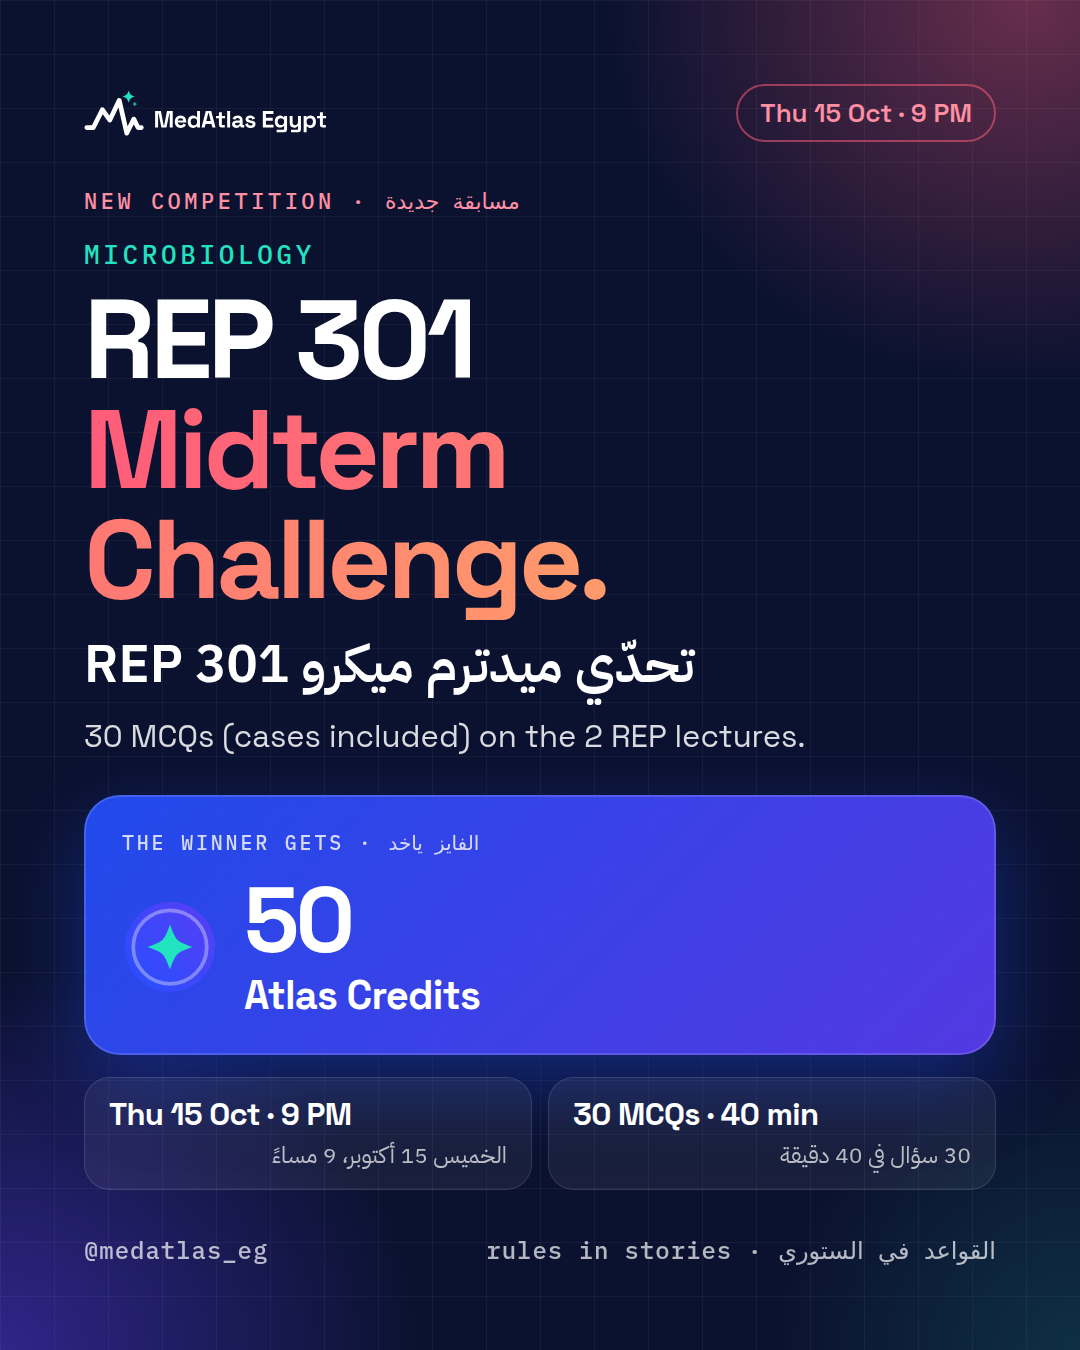
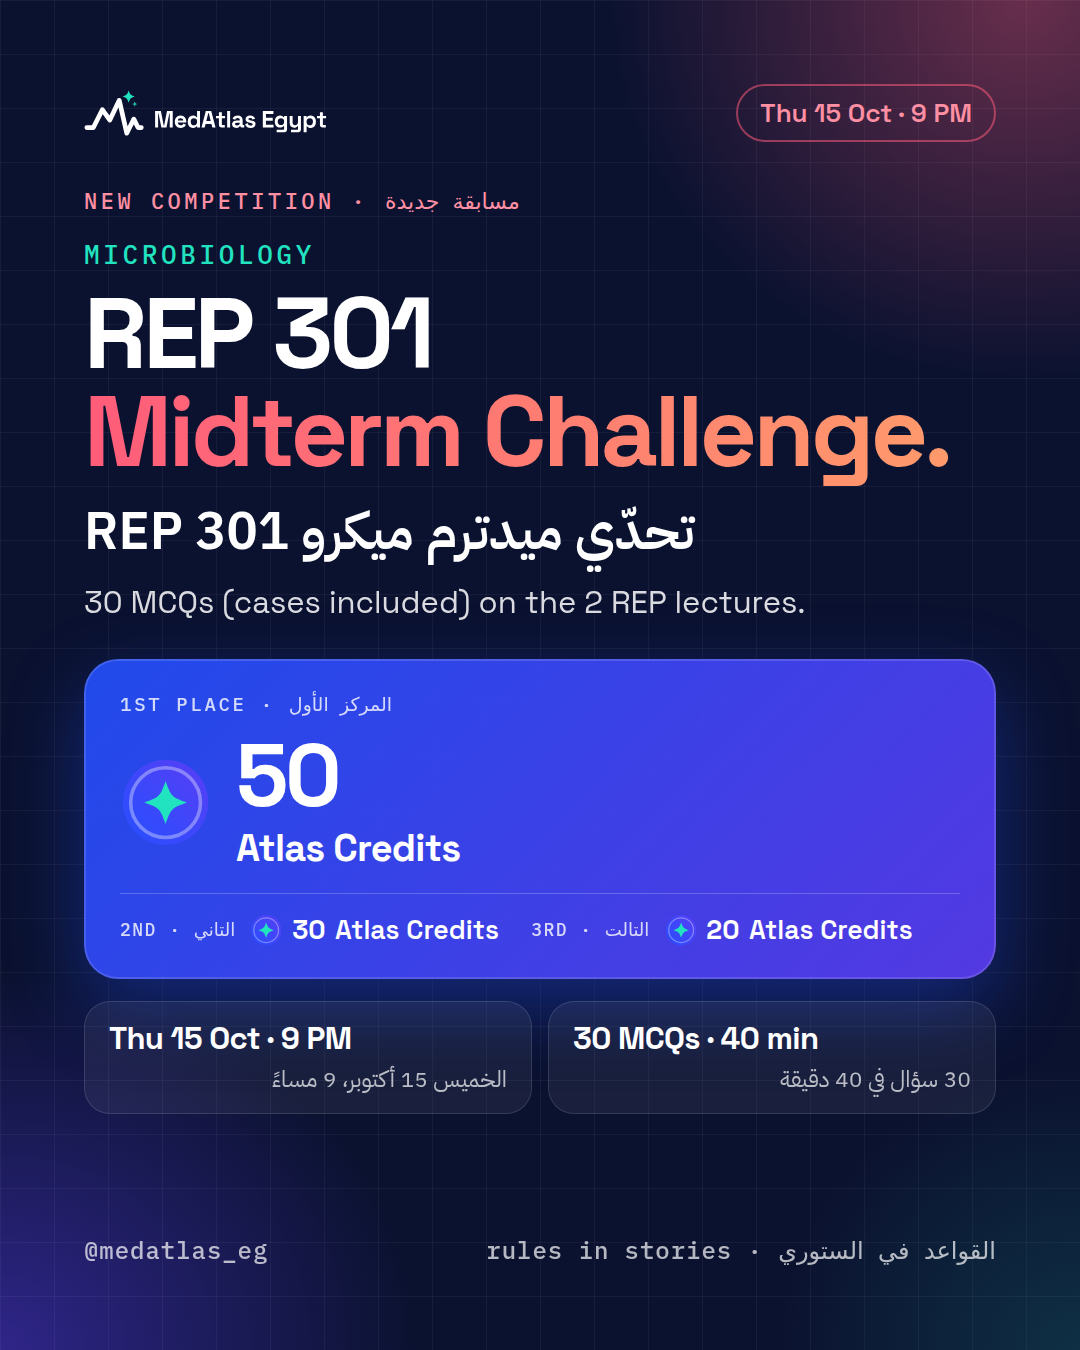
REP challenge designs: 1st 50, 2nd 30, 3rd 20 Atlas Credits

Changed region(s): [[0.0611, 0.2178, 0.9472, 0.8711]]

diff --git a/_source/rep-challenge/story-comp-rules.html b/_source/rep-challenge/story-comp-rules.html
@@ -5,7 +5,8 @@
   <div class="ar-line" style="margin-top:4px;font-size:48px">إزاي تشارك</div>
   <div style="margin-top:22px"><div class="rule"><div class="n">1</div><div><div class="en">Follow @medatlas_eg on Instagram and join our WhatsApp Channel</div><div class="arx">تابعنا على إنستجرام وانضم لقناة الواتساب</div></div></div><div class="rule"><div class="n">2</div><div><div class="en">Sign up on MedAtlas, free</div><div class="arx">سجّل على MedAtlas ببلاش</div></div></div><div class="rule"><div class="n">3</div><div><div class="en">Thu 15 Oct · opens 9:00 PM · last entry 9:15 PM</div><div class="arx">الخميس 15 أكتوبر: يفتح 9:00 م، وآخر دخول 9:15 م</div></div></div><div class="rule"><div class="n">4</div><div><div class="en">30 MCQs (cases included) · 40 min · 1 attempt</div><div class="arx">30 سؤال منهم حالات مرضية، 40 دقيقة، ومحاولة واحدة</div></div></div><div class="rule"><div class="n">5</div><div><div class="en">Highest score wins · tie? fastest wins</div><div class="arx">أعلى درجة تكسب، ولو في تعادل الأسرع يكسب</div></div></div><div class="rule"><div class="n">6</div><div><div class="en">Winners checked by university ID + Instagram, announced Fri 16 Oct, 8 PM</div><div class="arx">هنتأكد من الفايزين ونعلنهم الجمعة 16 أكتوبر 8 م، مع الإجابات</div></div></div></div>
   <div style="margin-top:8px"><div class="prize" style="zoom:0.8">
-  <div class="k">The winner gets · الفايز ياخد</div>
-  <div class="win"><svg width="96" height="96" viewBox="0 0 128 128"><defs><linearGradient id="cg2" x1="0" y1="128" x2="128" y2="0" gradientUnits="userSpaceOnUse"><stop offset="0" stop-color="#2350FF"/><stop offset="1" stop-color="#5B3DF5"/></linearGradient></defs><circle cx="64" cy="64" r="60" fill="url(#cg2)"/><circle cx="64" cy="64" r="49" fill="none" stroke="#fff" stroke-opacity=".35" stroke-width="5"/><path d="M64 34 C72.1 55.9 72.1 55.9 94 64 C72.1 72.1 72.1 72.1 64 94 C55.9 72.1 55.9 72.1 34 64 C55.9 55.9 55.9 55.9 64 34 Z" fill="#21E3C0"/></svg><div><div class="v">50</div><div class="u">Atlas Credits</div></div></div>
+  <div class="k">1st place · المركز الأول</div>
+  <div class="win"><svg width="96" height="96" viewBox="0 0 128 128"><defs><linearGradient id="cg4" x1="0" y1="128" x2="128" y2="0" gradientUnits="userSpaceOnUse"><stop offset="0" stop-color="#2350FF"/><stop offset="1" stop-color="#5B3DF5"/></linearGradient></defs><circle cx="64" cy="64" r="60" fill="url(#cg4)"/><circle cx="64" cy="64" r="49" fill="none" stroke="#fff" stroke-opacity=".35" stroke-width="5"/><path d="M64 34 C72.1 55.9 72.1 55.9 94 64 C72.1 72.1 72.1 72.1 64 94 C55.9 72.1 55.9 72.1 34 64 C55.9 55.9 55.9 55.9 64 34 Z" fill="#21E3C0"/></svg><div><div class="v">50</div><div class="u">Atlas Credits</div></div></div>
+  <div class="runners"><div><span class="pl">2nd · التاني</span><svg width="34" height="34" viewBox="0 0 128 128"><defs><linearGradient id="cg5" x1="0" y1="128" x2="128" y2="0" gradientUnits="userSpaceOnUse"><stop offset="0" stop-color="#2350FF"/><stop offset="1" stop-color="#5B3DF5"/></linearGradient></defs><circle cx="64" cy="64" r="60" fill="url(#cg5)"/><circle cx="64" cy="64" r="49" fill="none" stroke="#fff" stroke-opacity=".35" stroke-width="5"/><path d="M64 34 C72.1 55.9 72.1 55.9 94 64 C72.1 72.1 72.1 72.1 64 94 C55.9 72.1 55.9 72.1 34 64 C55.9 55.9 55.9 55.9 64 34 Z" fill="#21E3C0"/></svg><b>30</b> Atlas Credits</div><div><span class="pl">3rd · التالت</span><svg width="34" height="34" viewBox="0 0 128 128"><defs><linearGradient id="cg6" x1="0" y1="128" x2="128" y2="0" gradientUnits="userSpaceOnUse"><stop offset="0" stop-color="#2350FF"/><stop offset="1" stop-color="#5B3DF5"/></linearGradient></defs><circle cx="64" cy="64" r="60" fill="url(#cg6)"/><circle cx="64" cy="64" r="49" fill="none" stroke="#fff" stroke-opacity=".35" stroke-width="5"/><path d="M64 34 C72.1 55.9 72.1 55.9 94 64 C72.1 72.1 72.1 72.1 64 94 C55.9 72.1 55.9 72.1 34 64 C55.9 55.9 55.9 55.9 64 34 Z" fill="#21E3C0"/></svg><b>20</b> Atlas Credits</div></div>
 </div></div>
   <div class="body" style="margin-top:20px;font-size:25px;opacity:.65">Only your first attempt counts · <span class="ar">أول محاولة بس اللي بتتحسب</span></div></div></body></html>

diff --git a/_source/rep-challenge/post-comp-rep-challenge.html b/_source/rep-challenge/post-comp-rep-challenge.html
@@ -1,12 +1,13 @@
 <!doctype html><html><head><meta charset="utf-8"><link rel="stylesheet" href="../comp.css"><style>:root{--w:1080px;--h:1350px}.fact{padding:16px 24px}.fact b{font-size:31px}</style></head><body><div class="frame">
   <div class="top"><img src="../../../logo/final/svg/medatlas-logo-horizontal-reversed.svg" alt=""><span class="chip rep-c">Thu 15 Oct · 9 PM</span></div>
   <div style="margin-top:44px"><span class="label">New competition · مسابقة جديدة</span></div>
-  <div class="h1" style="--h1:112px;margin-top:22px"><span class="sub">Microbiology</span>REP 301<br><span class="rep">Midterm Challenge.</span></div>
+  <div class="h1" style="--h1:100px;margin-top:22px"><span class="sub">Microbiology</span>REP 301<br><span class="rep">Midterm Challenge.</span></div>
   <div class="ar-line" style="margin-top:14px;font-size:52px">تحدّي ميدترم ميكرو REP 301</div>
   <div class="body" style="margin-top:10px;font-size:31px">30 MCQs (cases included) on the 2 REP lectures.</div>
-  <div style="margin-top:36px"><div class="prize" style="zoom:1">
-  <div class="k">The winner gets · الفايز ياخد</div>
+  <div style="margin-top:34px"><div class="prize" style="zoom:0.95">
+  <div class="k">1st place · المركز الأول</div>
   <div class="win"><svg width="96" height="96" viewBox="0 0 128 128"><defs><linearGradient id="cg1" x1="0" y1="128" x2="128" y2="0" gradientUnits="userSpaceOnUse"><stop offset="0" stop-color="#2350FF"/><stop offset="1" stop-color="#5B3DF5"/></linearGradient></defs><circle cx="64" cy="64" r="60" fill="url(#cg1)"/><circle cx="64" cy="64" r="49" fill="none" stroke="#fff" stroke-opacity=".35" stroke-width="5"/><path d="M64 34 C72.1 55.9 72.1 55.9 94 64 C72.1 72.1 72.1 72.1 64 94 C55.9 72.1 55.9 72.1 34 64 C55.9 55.9 55.9 55.9 64 34 Z" fill="#21E3C0"/></svg><div><div class="v">50</div><div class="u">Atlas Credits</div></div></div>
+  <div class="runners"><div><span class="pl">2nd · التاني</span><svg width="34" height="34" viewBox="0 0 128 128"><defs><linearGradient id="cg2" x1="0" y1="128" x2="128" y2="0" gradientUnits="userSpaceOnUse"><stop offset="0" stop-color="#2350FF"/><stop offset="1" stop-color="#5B3DF5"/></linearGradient></defs><circle cx="64" cy="64" r="60" fill="url(#cg2)"/><circle cx="64" cy="64" r="49" fill="none" stroke="#fff" stroke-opacity=".35" stroke-width="5"/><path d="M64 34 C72.1 55.9 72.1 55.9 94 64 C72.1 72.1 72.1 72.1 64 94 C55.9 72.1 55.9 72.1 34 64 C55.9 55.9 55.9 55.9 64 34 Z" fill="#21E3C0"/></svg><b>30</b> Atlas Credits</div><div><span class="pl">3rd · التالت</span><svg width="34" height="34" viewBox="0 0 128 128"><defs><linearGradient id="cg3" x1="0" y1="128" x2="128" y2="0" gradientUnits="userSpaceOnUse"><stop offset="0" stop-color="#2350FF"/><stop offset="1" stop-color="#5B3DF5"/></linearGradient></defs><circle cx="64" cy="64" r="60" fill="url(#cg3)"/><circle cx="64" cy="64" r="49" fill="none" stroke="#fff" stroke-opacity=".35" stroke-width="5"/><path d="M64 34 C72.1 55.9 72.1 55.9 94 64 C72.1 72.1 72.1 72.1 64 94 C55.9 72.1 55.9 72.1 34 64 C55.9 55.9 55.9 55.9 64 34 Z" fill="#21E3C0"/></svg><b>20</b> Atlas Credits</div></div>
 </div></div>
   <div class="facts" style="margin-top:22px">
     <div class="fact"><b>Thu 15 Oct · 9 PM</b><span class="ar">الخميس 15 أكتوبر، 9 مساءً</span></div>

diff --git a/_source/rep-challenge/story-comp-countdown.html b/_source/rep-challenge/story-comp-countdown.html
@@ -5,8 +5,9 @@
   <div class="ar" style="font-weight:700;font-size:56px;margin-top:18px">تحدّي ميدترم ميكرو REP 301</div>
   <div class="body" style="margin-top:14px;font-size:30px">30 MCQs · 40 min · <span class="ar">الخميس 9 مساءً</span></div></div>
   <div style="margin:48px auto 0"><div class="prize" style="zoom:0.95">
-  <div class="k">The winner gets · الفايز ياخد</div>
-  <div class="win"><svg width="96" height="96" viewBox="0 0 128 128"><defs><linearGradient id="cg3" x1="0" y1="128" x2="128" y2="0" gradientUnits="userSpaceOnUse"><stop offset="0" stop-color="#2350FF"/><stop offset="1" stop-color="#5B3DF5"/></linearGradient></defs><circle cx="64" cy="64" r="60" fill="url(#cg3)"/><circle cx="64" cy="64" r="49" fill="none" stroke="#fff" stroke-opacity=".35" stroke-width="5"/><path d="M64 34 C72.1 55.9 72.1 55.9 94 64 C72.1 72.1 72.1 72.1 64 94 C55.9 72.1 55.9 72.1 34 64 C55.9 55.9 55.9 55.9 64 34 Z" fill="#21E3C0"/></svg><div><div class="v">50</div><div class="u">Atlas Credits</div></div></div>
+  <div class="k">1st place · المركز الأول</div>
+  <div class="win"><svg width="96" height="96" viewBox="0 0 128 128"><defs><linearGradient id="cg7" x1="0" y1="128" x2="128" y2="0" gradientUnits="userSpaceOnUse"><stop offset="0" stop-color="#2350FF"/><stop offset="1" stop-color="#5B3DF5"/></linearGradient></defs><circle cx="64" cy="64" r="60" fill="url(#cg7)"/><circle cx="64" cy="64" r="49" fill="none" stroke="#fff" stroke-opacity=".35" stroke-width="5"/><path d="M64 34 C72.1 55.9 72.1 55.9 94 64 C72.1 72.1 72.1 72.1 64 94 C55.9 72.1 55.9 72.1 34 64 C55.9 55.9 55.9 55.9 64 34 Z" fill="#21E3C0"/></svg><div><div class="v">50</div><div class="u">Atlas Credits</div></div></div>
+  <div class="runners"><div><span class="pl">2nd · التاني</span><svg width="34" height="34" viewBox="0 0 128 128"><defs><linearGradient id="cg8" x1="0" y1="128" x2="128" y2="0" gradientUnits="userSpaceOnUse"><stop offset="0" stop-color="#2350FF"/><stop offset="1" stop-color="#5B3DF5"/></linearGradient></defs><circle cx="64" cy="64" r="60" fill="url(#cg8)"/><circle cx="64" cy="64" r="49" fill="none" stroke="#fff" stroke-opacity=".35" stroke-width="5"/><path d="M64 34 C72.1 55.9 72.1 55.9 94 64 C72.1 72.1 72.1 72.1 64 94 C55.9 72.1 55.9 72.1 34 64 C55.9 55.9 55.9 55.9 64 34 Z" fill="#21E3C0"/></svg><b>30</b> Atlas Credits</div><div><span class="pl">3rd · التالت</span><svg width="34" height="34" viewBox="0 0 128 128"><defs><linearGradient id="cg9" x1="0" y1="128" x2="128" y2="0" gradientUnits="userSpaceOnUse"><stop offset="0" stop-color="#2350FF"/><stop offset="1" stop-color="#5B3DF5"/></linearGradient></defs><circle cx="64" cy="64" r="60" fill="url(#cg9)"/><circle cx="64" cy="64" r="49" fill="none" stroke="#fff" stroke-opacity=".35" stroke-width="5"/><path d="M64 34 C72.1 55.9 72.1 55.9 94 64 C72.1 72.1 72.1 72.1 64 94 C55.9 72.1 55.9 72.1 34 64 C55.9 55.9 55.9 55.9 64 34 Z" fill="#21E3C0"/></svg><b>20</b> Atlas Credits</div></div>
 </div></div>
   <div style="flex:1"></div>
   <div class="body" style="text-align:center;font-size:28px;opacity:.7">↓ set a reminder · <span class="ar">فعّل التذكير</span></div>

diff --git a/_source/rep-challenge/story-comp-poll.html b/_source/rep-challenge/story-comp-poll.html
@@ -7,6 +7,7 @@
   <div class="slot"><span>↓ vote · <span class="ar">صوّت</span></span></div>
   <div style="flex:1"></div>
   <div style="margin:0 auto"><div class="prize" style="zoom:0.95">
-  <div class="k">The winner gets · الفايز ياخد</div>
-  <div class="win"><svg width="96" height="96" viewBox="0 0 128 128"><defs><linearGradient id="cg4" x1="0" y1="128" x2="128" y2="0" gradientUnits="userSpaceOnUse"><stop offset="0" stop-color="#2350FF"/><stop offset="1" stop-color="#5B3DF5"/></linearGradient></defs><circle cx="64" cy="64" r="60" fill="url(#cg4)"/><circle cx="64" cy="64" r="49" fill="none" stroke="#fff" stroke-opacity=".35" stroke-width="5"/><path d="M64 34 C72.1 55.9 72.1 55.9 94 64 C72.1 72.1 72.1 72.1 64 94 C55.9 72.1 55.9 72.1 34 64 C55.9 55.9 55.9 55.9 64 34 Z" fill="#21E3C0"/></svg><div><div class="v">50</div><div class="u">Atlas Credits</div></div></div>
+  <div class="k">1st place · المركز الأول</div>
+  <div class="win"><svg width="96" height="96" viewBox="0 0 128 128"><defs><linearGradient id="cg10" x1="0" y1="128" x2="128" y2="0" gradientUnits="userSpaceOnUse"><stop offset="0" stop-color="#2350FF"/><stop offset="1" stop-color="#5B3DF5"/></linearGradient></defs><circle cx="64" cy="64" r="60" fill="url(#cg10)"/><circle cx="64" cy="64" r="49" fill="none" stroke="#fff" stroke-opacity=".35" stroke-width="5"/><path d="M64 34 C72.1 55.9 72.1 55.9 94 64 C72.1 72.1 72.1 72.1 64 94 C55.9 72.1 55.9 72.1 34 64 C55.9 55.9 55.9 55.9 64 34 Z" fill="#21E3C0"/></svg><div><div class="v">50</div><div class="u">Atlas Credits</div></div></div>
+  <div class="runners"><div><span class="pl">2nd · التاني</span><svg width="34" height="34" viewBox="0 0 128 128"><defs><linearGradient id="cg11" x1="0" y1="128" x2="128" y2="0" gradientUnits="userSpaceOnUse"><stop offset="0" stop-color="#2350FF"/><stop offset="1" stop-color="#5B3DF5"/></linearGradient></defs><circle cx="64" cy="64" r="60" fill="url(#cg11)"/><circle cx="64" cy="64" r="49" fill="none" stroke="#fff" stroke-opacity=".35" stroke-width="5"/><path d="M64 34 C72.1 55.9 72.1 55.9 94 64 C72.1 72.1 72.1 72.1 64 94 C55.9 72.1 55.9 72.1 34 64 C55.9 55.9 55.9 55.9 64 34 Z" fill="#21E3C0"/></svg><b>30</b> Atlas Credits</div><div><span class="pl">3rd · التالت</span><svg width="34" height="34" viewBox="0 0 128 128"><defs><linearGradient id="cg12" x1="0" y1="128" x2="128" y2="0" gradientUnits="userSpaceOnUse"><stop offset="0" stop-color="#2350FF"/><stop offset="1" stop-color="#5B3DF5"/></linearGradient></defs><circle cx="64" cy="64" r="60" fill="url(#cg12)"/><circle cx="64" cy="64" r="49" fill="none" stroke="#fff" stroke-opacity=".35" stroke-width="5"/><path d="M64 34 C72.1 55.9 72.1 55.9 94 64 C72.1 72.1 72.1 72.1 64 94 C55.9 72.1 55.9 72.1 34 64 C55.9 55.9 55.9 55.9 64 34 Z" fill="#21E3C0"/></svg><b>20</b> Atlas Credits</div></div>
 </div></div></div></body></html>

diff --git a/_source/rep-challenge/comp_build.py b/_source/rep-challenge/comp_build.py
@@ -19,8 +19,9 @@ LOGO = '<img src="../../../logo/final/svg/medatlas-logo-horizontal-reversed.svg"
 
 def prize(zoom=1.0):
     return f'''<div class="prize" style="zoom:{zoom}">
-  <div class="k">The winner gets · الفايز ياخد</div>
+  <div class="k">1st place · المركز الأول</div>
   <div class="win">{coin(96)}<div><div class="v">50</div><div class="u">Atlas Credits</div></div></div>
+  <div class="runners"><div><span class="pl">2nd · التاني</span>{coin(34)}<b>30</b> Atlas Credits</div><div><span class="pl">3rd · التالت</span>{coin(34)}<b>20</b> Atlas Credits</div></div>
 </div>'''
 
 
@@ -36,10 +37,10 @@ AR_TITLE = 'تحدّي ميدترم ميكرو REP 301'
 page("post-comp-rep-challenge", 1080, 1350, f'''
   <div class="top">{LOGO}<span class="chip rep-c">Thu 15 Oct · 9 PM</span></div>
   <div style="margin-top:44px"><span class="label">New competition · مسابقة جديدة</span></div>
-  <div class="h1" style="--h1:112px;margin-top:22px">{TITLE}</div>
+  <div class="h1" style="--h1:100px;margin-top:22px">{TITLE}</div>
   <div class="ar-line" style="margin-top:14px;font-size:52px">{AR_TITLE}</div>
   <div class="body" style="margin-top:10px;font-size:31px">30 MCQs (cases included) on the 2 REP lectures.</div>
-  <div style="margin-top:36px">{prize(1)}</div>
+  <div style="margin-top:34px">{prize(.95)}</div>
   <div class="facts" style="margin-top:22px">
     <div class="fact"><b>Thu 15 Oct · 9 PM</b><span class="ar">الخميس 15 أكتوبر، 9 مساءً</span></div>
     <div class="fact"><b>30 MCQs · 40 min</b><span class="ar">30 سؤال في 40 دقيقة</span></div>
